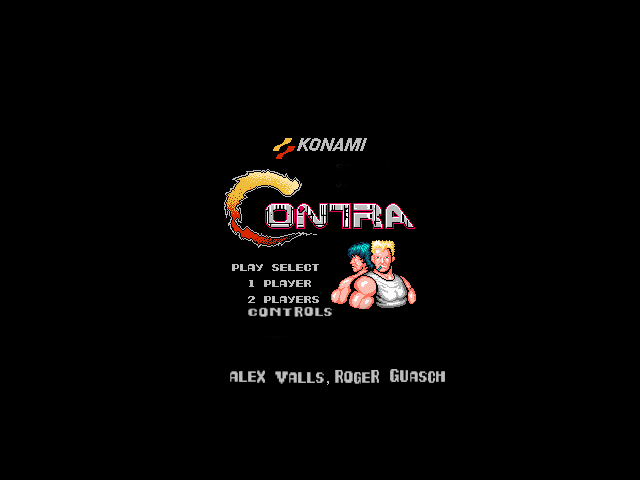
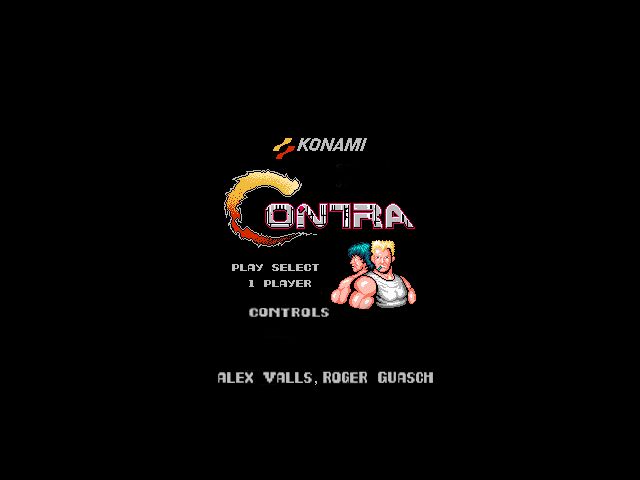
Now menu and controls screen look better :blush:

Changed region(s): [[0.3438, 0.75, 0.6875, 0.8125], [0.375, 0.5938, 0.5312, 0.6875]]

diff --git a/Contra/2DGame/ContraGame/ContraGame/Scene.cpp b/Contra/2DGame/ContraGame/ContraGame/Scene.cpp
@@ -51,14 +51,14 @@ void Scene::menuUpdate(int deltaTime) {
 	sprite->update(deltaTime);
 	if (Game::instance().getSpecialKey(GLUT_KEY_DOWN)) {
 		glm::vec2 posSelector = spriteSelector->getPosition();
-		if(posSelector.y < 293) posSelector.y += 15.f;
+		if(posSelector.y < 293) posSelector.y += 30.f;
 		//posSelector.y += 5.f;
 		spriteSelector->setPosition(posSelector);
 		spriteSelector->render();
 	}
 	else if (Game::instance().getSpecialKey(GLUT_KEY_UP)) {
 		glm::vec2 posSelector = spriteSelector->getPosition();
-		if (posSelector.y > 263) posSelector.y -= 15.f;
+		if (posSelector.y > 263) posSelector.y -= 30.f;
 		//posSelector.y -= 5.f;
 		spriteSelector->setPosition(posSelector);
 		spriteSelector->render();
